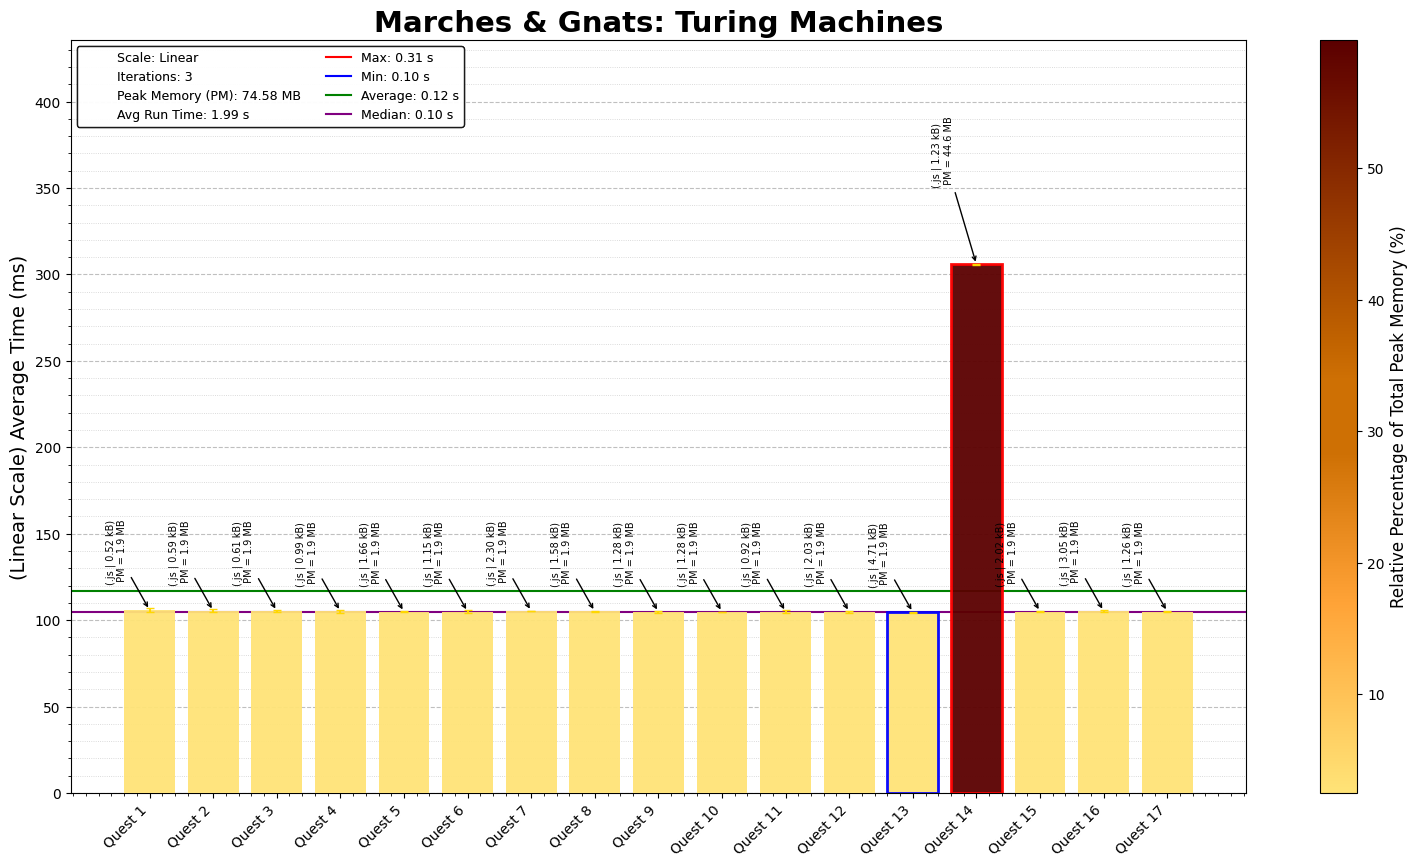
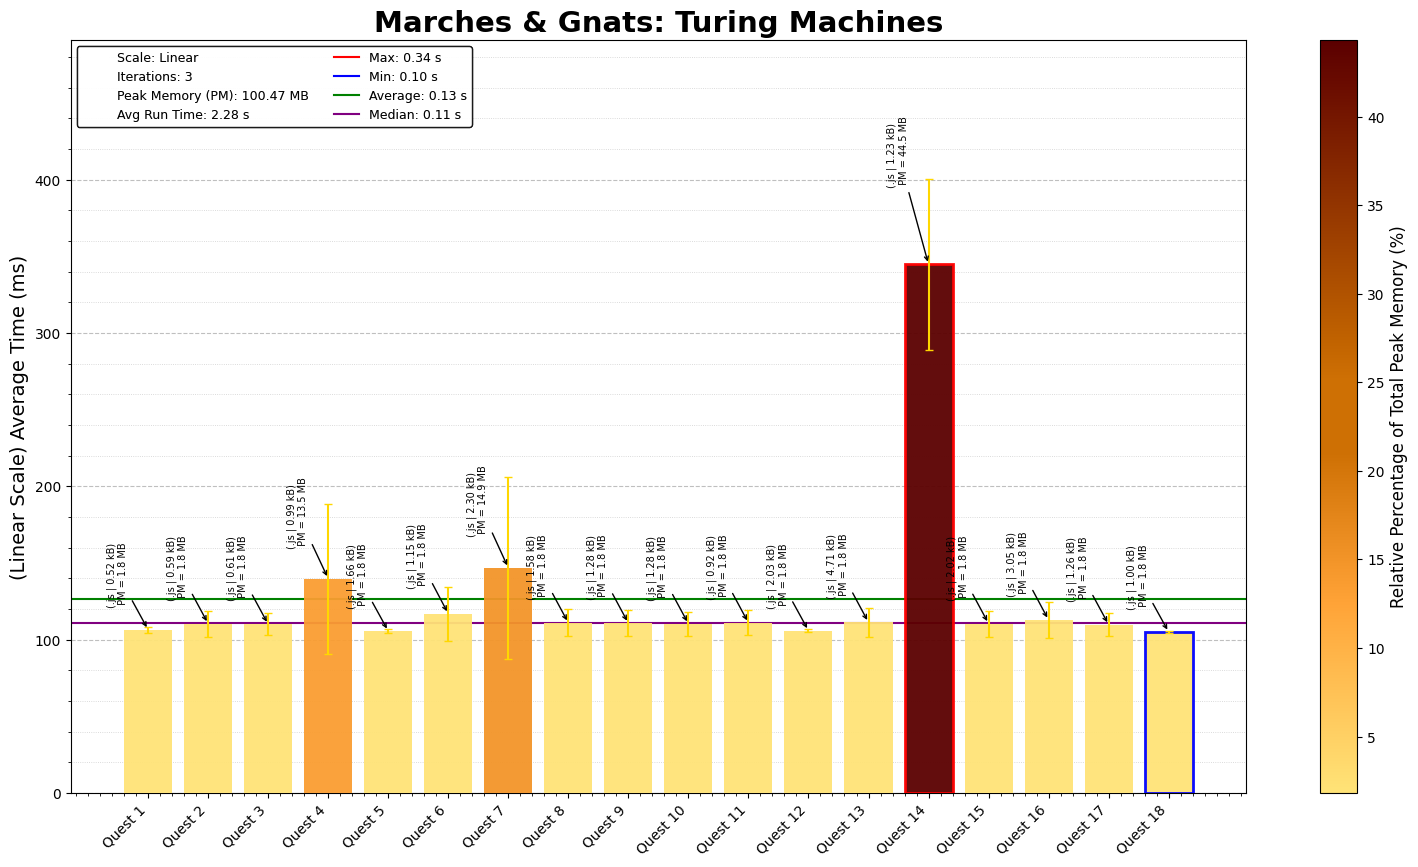
MNG Quest 18 Unary Division

diff --git a/MNG/Quest_18/MNGQuest_18.js b/MNG/Quest_18/MNGQuest_18.js
@@ -1,0 +1,43 @@
+/* Marches And Gnatts - Quest 18
+Solution Started: September 19, 2025
+Puzzle Link: https://mng.quest/quest/18/
+Solution by: Abbas Moosajee
+Brief: [Unary Division]
+*/
+
+import { MNG_ARENA } from '../MNG_ARENA.js';
+
+const unary_div = new MNG_ARENA("Quest18_input");
+
+const test_rules = `// unary division
+INIT | INIT | L
+INIT _ MARK , R
+MARK | MARK | R
+MARK ÷ MARK _ R
+MARK , MARK , R
+MARK _ DIV _ L
+DIV | DIVIDE _ L
+DIVIDE | DIVIDE | L
+DIVIDE _ APPLY _ L
+APPLY @ APPLY @ L
+APPLY | APPLIED @ R
+APPLIED @ APPLIED @ R
+APPLIED _ MARK _ R
+DIV _ COUNT _ L
+MARK @ SHIFT _ R
+SHIFT @ SHIFT | R
+SHIFT _ MARK | R
+COUNT @ COUNT @ L
+COUNT | COUNT | L
+COUNT , COUNT , L
+COUNT _ MARK | R
+APPLY , REMAINDER , R
+REMAINDER @ REMAINDER | R
+REMAINDER _ CLEAN _ R
+CLEAN | CLEAN _ R
+CLEAN _ HALT _ R`;
+
+unary_div.full_solution(test_rules);
+unary_div.benchmark_solution(["|||÷||", "||÷||", "|||||÷|||"], false)
+// unary_div.test_solution("||||||÷||||", true)
+unary_div.save_rules(import.meta.url);
